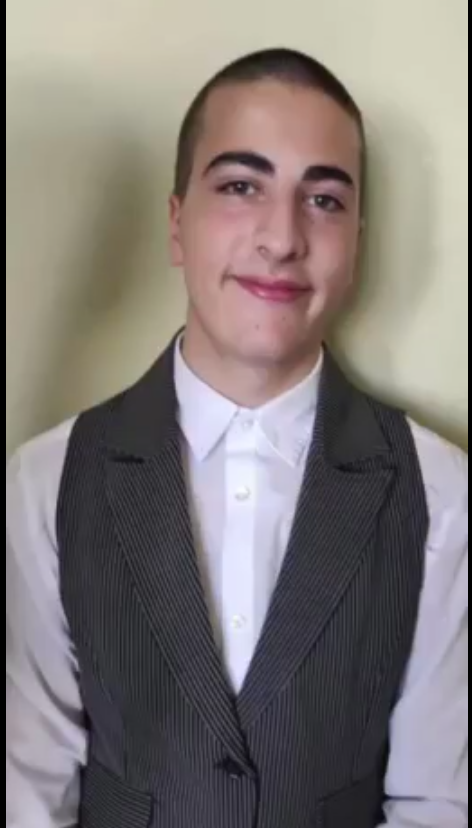
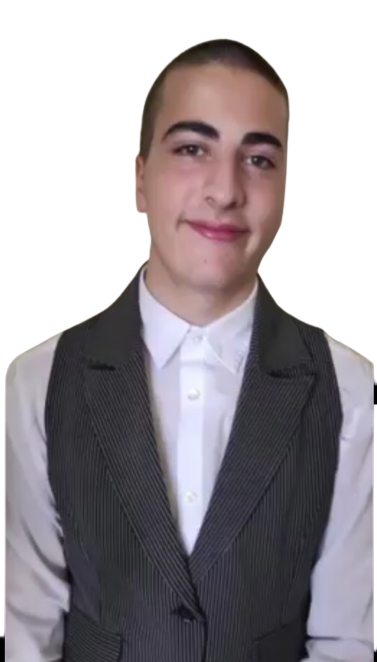
minor fixes of <hr> and imges

diff --git a/index.html b/index.html
@@ -30,8 +30,9 @@
         <div class="slider-container">
             <div class="slider">
                 <img src="./img/me.png" alt="Image 1">
-                <img src="./img/meoreme.png" alt="Image 2" class="hidden-image">
                 <img src="./img/me3.png" alt="Image 3" class="hidden-image">
+                <img src="./img/meoreme.png" alt=" Image 2" class="hidden-image">
+
             </div>
             <button class="prev-button knopka">Previous</button>
             <button class="next-button knopka">Next</button>
@@ -72,7 +73,7 @@
             </div>
         </div>
         <div class="me">
-            <img src="./img/meoreme.png" alt="">
+            <img src="./img/realurime.png" alt="">
         </div>
         <div class="bar-container">
             <div class="bar">
@@ -200,7 +201,7 @@
         </div>
     </section>
     <section class="mexute">
-        <div class="slider-container">
+        <div class="slider-container2">
             <div class="rec">
                 <p>Excepteur sint occaecat cupidatat non proident, sunt in culpa qui officia <br>
                     deserunt mollit anim id est dolor sit amet, consectetur adipisicing elit <br>
@@ -213,7 +214,7 @@
                     <p style="color: red; font-size: 9px; text-align: left;"> Graphic designer</p>
                     <p style="font-size: 30px;">Mau Thomas</p>
                 </div>
-                <div class="slide-rec2" style="display: none;">
+                <div class="slide-rec2">
                     <p>Excepteur sint occaecat cupidatat non proident, sunt in culpa qui officia <br>
                         deserunt mollit anim id est dolor sit amet, consectetur adipisicing elit <br>
                         sed do eiusmod tempor incididunt ut labore..</p>
@@ -225,7 +226,7 @@
                         <p style="color: red; font-size: 9px; text-align: left;"> Graphic designer</p>
                         <p style="font-size: 30px;">Mau Thomas</p>
                     </div>
-                    <div class="rec3" style="display: none;">
+                    <div class="rec3">
                         <p>Excepteur sint occaecat cupidatat non proident, sunt in culpa qui officia <br>
                             deserunt mollit anim id est dolor sit amet, consectetur adipisicing elit <br>
                             sed do eiusmod tempor incididunt ut labore..</p>
@@ -238,13 +239,21 @@
                             <p style="font-size: 30px;">Mau Thomas</p>
                         </div>
                     </div>
-                    <div class="controls">
+                    <!-- <div class="gilaki">
                         <button id="wina">Previous</button>
                         <button id="shemdegi">Next</button>
                     </div>
+                    <div class="dots">
+                        <span class="dot"></span>
+                        <span class="dot"></span>
+                        <span class="dot"></span>
+                    </div> -->
                 </div>
-
+            </div>
     </section>
+    <!--  <section class="meeqvse">
+        <h1>Latest Projects</h1>
+    </section> -->
 
     <script src="app.js"></script>
 </body>

diff --git a/style.css b/style.css
@@ -92,17 +92,20 @@
     color: red;
     display: flex;
     flex-direction: column;
-    align-items: end;
+    justify-content: flex-end;
     font-size: 18px;
     margin-bottom: 30px;
     position: relative;
+    margin-left: 100px;
 
 }
 
 #xazi {
     border-top: 5px solid red;
     border-radius: 10px;
-    width: 100px;
+    width: 100%;
+    display: flex;
+
 }
 
 .meore {
@@ -137,7 +140,6 @@ button {
     height: 40px;
     background-color: red;
 }
-
 
 
 .support {
@@ -298,12 +300,9 @@ button {
     pointer-events: auto;
 }
 
-
-
 .rec {
     margin-top: 100px;
     height: 400px;
-    background-color: darkblue;
     color: white;
     font-size: 15px;
     display: flex;
@@ -311,4 +310,122 @@ button {
     justify-content: center;
     text-align: right;
     gap: 30px;
+}
+
+.mexute {
+    background-image: url(./img/back.avif);
+    background-size: cover;
+    background-repeat: no-repeat;
+}
+
+h1 {
+    margin-top: 150px;
+}
+
+
+
+
+
+@media(max-width: 400px) {
+    .navi {
+        display: none;
+        font-size: 24px;
+    }
+
+    .pirveli,
+    .meore,
+    .mesame,
+    .meotxe,
+    .mexute {
+        flex-direction: column;
+        align-items: center;
+    }
+
+    .links {
+        display: flex;
+        justify-content: center;
+    }
+
+    .meotxe {
+        margin-top: 10px;
+        font-size: 10px;
+    }
+
+    .agwera,
+    .saxeli {
+        text-align: center;
+        margin-left: 0;
+    }
+
+    .zeda {
+        text-align: center;
+    }
+
+    .me {
+        display: flex;
+        justify-content: center;
+    }
+
+    .stack {
+        margin: 20px 0;
+    }
+
+    .f-bar {
+        margin: 20px 0;
+        margin-left: 0;
+    }
+
+    .me img {
+        max-width: 60%;
+    }
+
+    .bar-container {
+        margin-top: 20px;
+    }
+
+    .support {
+        flex-direction: column;
+        align-items: center;
+        margin: 20px 0;
+    }
+
+    .phone {
+        margin-left: -60px;
+    }
+
+    .box {
+        width: 90%;
+    }
+
+    .bar {
+        margin-bottom: 5px;
+    }
+
+    .links {
+        font-size: 20px;
+    }
+
+    .wre {
+        width: 50px;
+        height: 50px;
+        margin-right: 10px;
+    }
+
+    .icon {
+        font-size: 18px;
+    }
+
+    .slider-container2,
+    .slide-rec2,
+    .rec3 {
+        padding: 10px;
+    }
+
+    .dots {
+        display: none;
+    }
+
+    .meeqvse h1 {
+        font-size: 24px;
+    }
 }

diff --git a/app.js b/app.js
@@ -1,4 +1,4 @@
-const slider = document.querySelector('.slider');
+/* const slider = document.querySelector('.slider');
 const images = slider.querySelectorAll('img');
 const prevButton = document.querySelector('.prev-button');
 const nextButton = document.querySelector('.next-button');
@@ -43,6 +43,35 @@ slider.addEventListener('mouseenter', () => {
 slider.addEventListener('mouseleave', () => {
     slideInterval = setInterval(goToNextSlide, 5000);
 });
+ */
 
 
 
+const slides = document.querySelectorAll('.slide');
+const prevButton = document.getElementById('prevButton');
+const nextButton = document.getElementById('nextButton');
+let currentSlideIndex = 0;
+
+prevButton.addEventListener('click', () => {
+    currentSlideIndex = (currentSlideIndex - 1 + slides.length) % slides.length;
+    updateSlider();
+});
+
+nextButton.addEventListener('click', () => {
+    currentSlideIndex = (currentSlideIndex + 1) % slides.length;
+    updateSlider();
+});
+
+function updateSlider() {
+    slides.forEach((slide, index) => {
+        if (index === currentSlideIndex) {
+            slide.style.transform = 'translateX(0)';
+        } else if (index < currentSlideIndex) {
+            slide.style.transform = 'translateX(-100%)';
+        } else {
+            slide.style.transform = 'translateX(100%)';
+        }
+    });
+}
+
+updateSlider();
